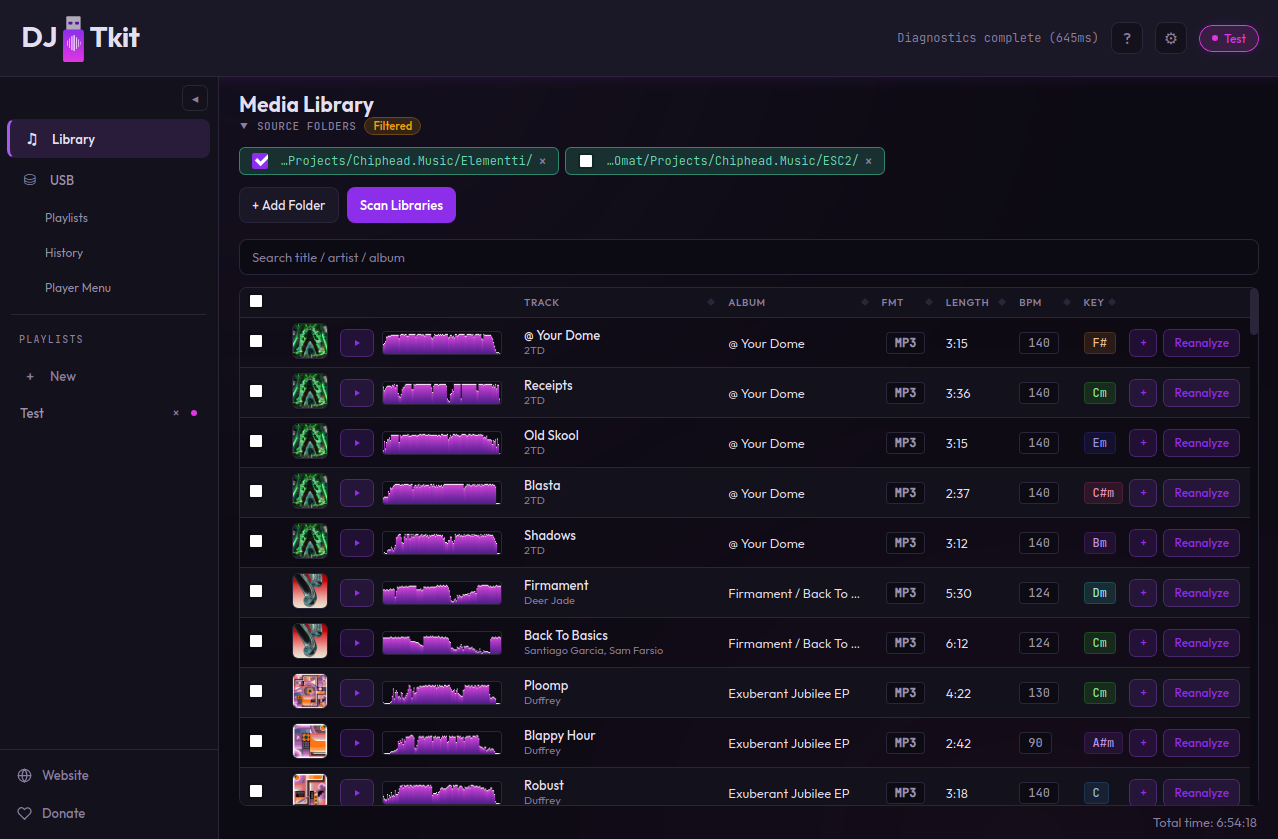
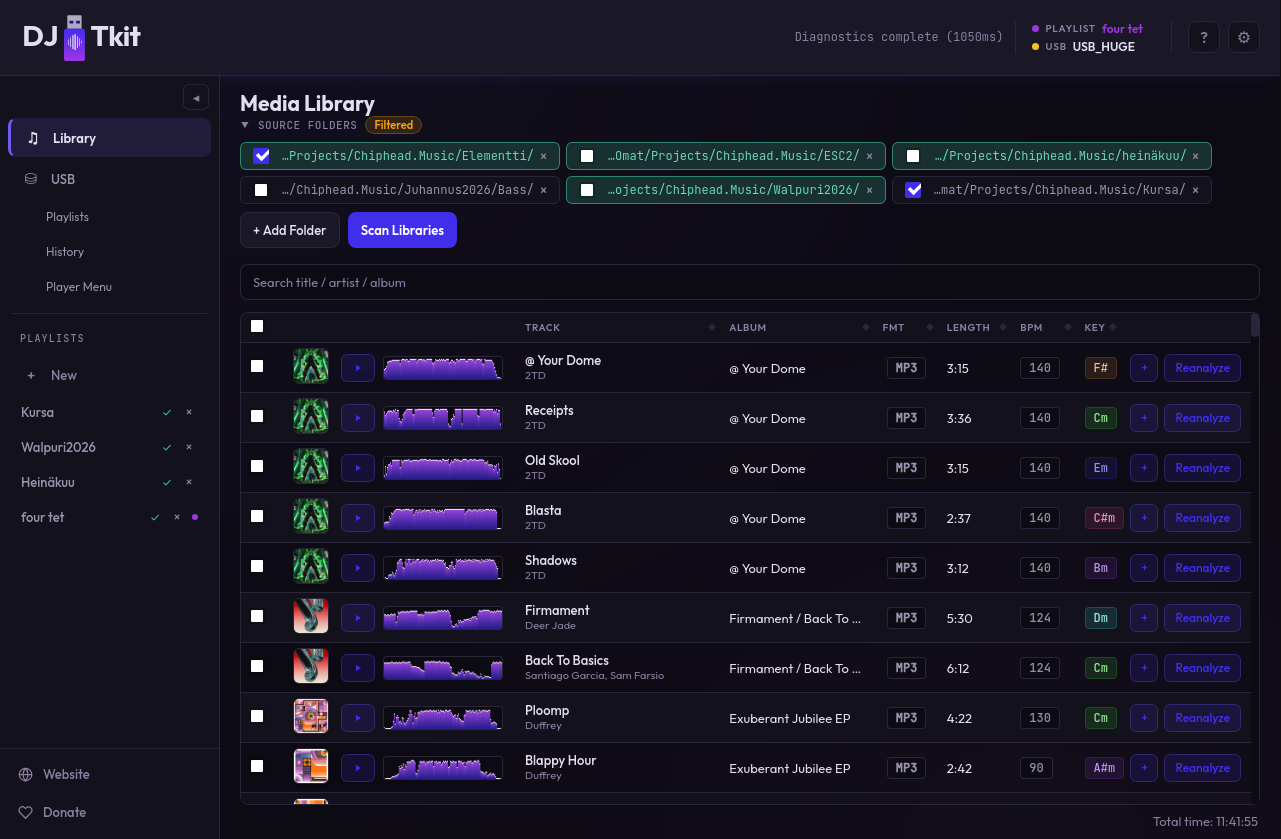
change the UI screenshot

diff --git a/vanilla-ui/index.html b/vanilla-ui/index.html
@@ -42,8 +42,6 @@
     </h1>
     <div class="status-wrap">
       <div class="status" id="statusText">Idle</div>
-      <button class="help-btn" id="helpBtn" data-tooltip="Help" aria-label="Help">?</button>
-      <button class="settings-btn" id="settingsBtn" data-tooltip="Settings" aria-label="Settings">&#9881;</button>
       <div class="header-export-stack">
         <div class="playlist-badge inactive" id="playlistBadge">
           <span class="playlist-header-dot"></span>
@@ -55,6 +53,10 @@
           <span class="header-stat-label">USB</span>
           <span class="header-stat-value" id="usbNameBadgeLabel">Not connected</span>
         </div>
+      </div>
+      <div class="header-utility-group">
+        <button class="help-btn" id="helpBtn" data-tooltip="Help" aria-label="Help">?</button>
+        <button class="settings-btn" id="settingsBtn" data-tooltip="Settings" aria-label="Settings">&#9881;</button>
       </div>
     </div>
   </header>

diff --git a/vanilla-ui/styles.css b/vanilla-ui/styles.css
@@ -309,6 +309,14 @@ body.library-onboarding {
   box-shadow: 0 0 8px var(--accent-glow);
 }
 
+.header-utility-group {
+  display: flex;
+  align-items: center;
+  gap: 8px;
+  padding-left: 16px;
+  border-left: 1px solid var(--line);
+}
+
 /* ── header export stack (active playlist over connected USB) ── */
 /* Two compact single-line rows stacked in one narrow column -- no taller
    than the logo governing the topbar's height. Each row's dot sits next
